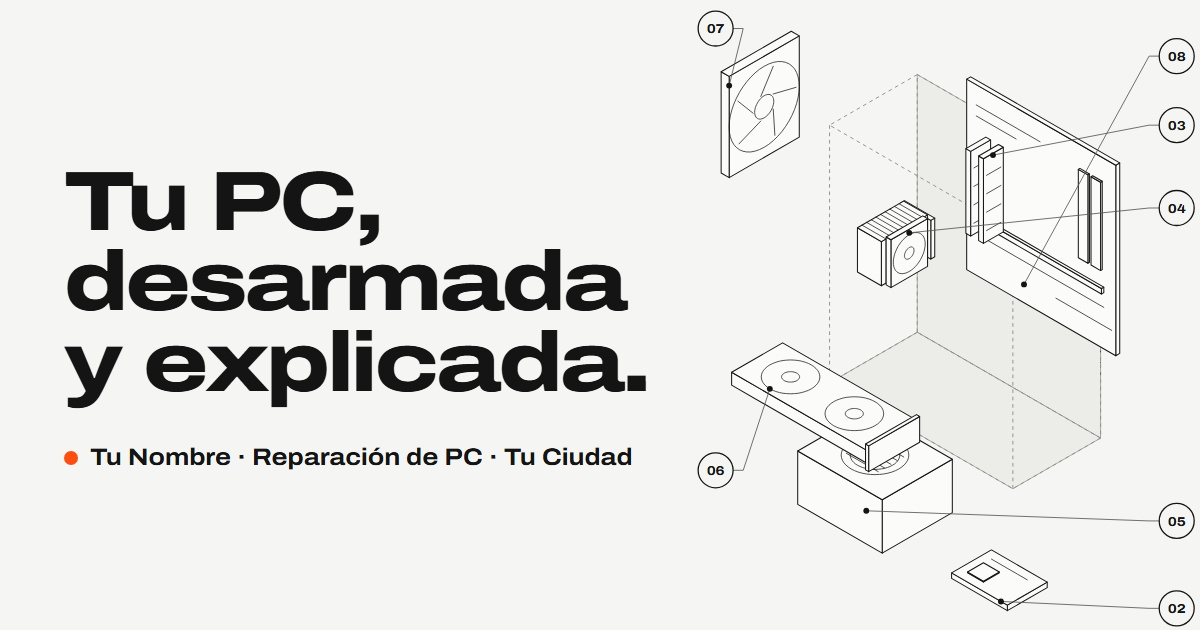
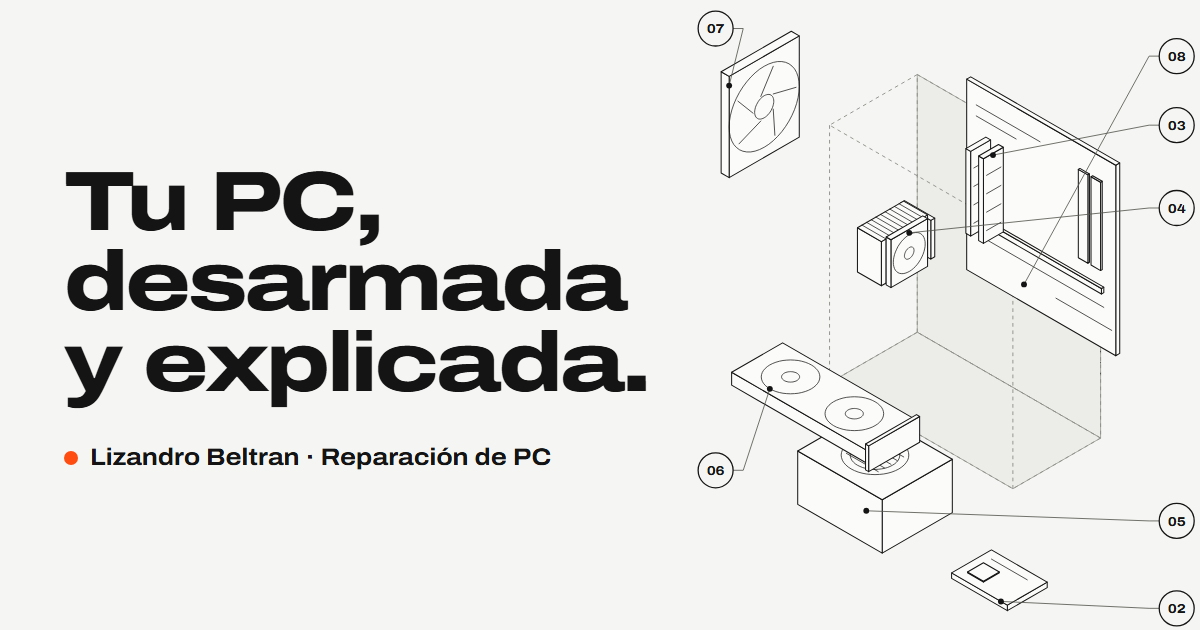
Poner el nombre Lizandro Beltran

Changed region(s): [[0.0617, 0.6937, 0.5242, 0.754]]

diff --git a/index.template.html b/index.template.html
@@ -5,7 +5,7 @@
   <meta name="viewport" content="width=device-width, initial-scale=1">
   <meta http-equiv="Content-Security-Policy" content="default-src 'self'; script-src 'self'; style-src 'self'; img-src 'self' data:; font-src 'self'; connect-src 'self'; base-uri 'none'; form-action 'none'; object-src 'none'">
   <meta name="referrer" content="strict-origin-when-cross-origin">
-  <title>Tu Nombre · Reparación de PC en Tu Ciudad</title>
+  <title>Lizandro Beltran · Reparación de PC en Tu Ciudad</title>
   <meta name="description" content="Técnico en reparación de computadoras en Tu Ciudad. PC lenta, que no prende, se apaga sola, virus o Windows que no arranca: te explico qué tiene en palabras simples y te muestro lo que hice.">
   <meta name="theme-color" content="#f5f6f3" media="(prefers-color-scheme: light)">
   <meta name="theme-color" content="#161719" media="(prefers-color-scheme: dark)">
@@ -13,7 +13,7 @@
   <link rel="canonical" href="https://valentinomastro-ops.github.io/portafolio-reparacion-pc/">
   <meta property="og:type" content="website">
   <meta property="og:locale" content="es_AR">
-  <meta property="og:title" content="Tu Nombre · Reparación de PC">
+  <meta property="og:title" content="Lizandro Beltran · Reparación de PC">
   <meta property="og:description" content="Tu PC, desarmada y explicada. Diagnóstico, reparación y mejoras de computadoras en Tu Ciudad.">
   <meta property="og:image" content="https://valentinomastro-ops.github.io/portafolio-reparacion-pc/assets/og-image.png">
   <meta property="og:url" content="https://valentinomastro-ops.github.io/portafolio-reparacion-pc/">
@@ -29,7 +29,7 @@
   {
     "@context": "https://schema.org",
     "@type": "LocalBusiness",
-    "name": "Tu Nombre · Reparación de PC",
+    "name": "Lizandro Beltran · Reparación de PC",
     "description": "Diagnóstico, reparación, limpieza y mejoras de computadoras de escritorio.",
     "telephone": "+54 9 385 845-9463",
     "email": "lizandro_beltran@hotmail.com",
@@ -54,9 +54,9 @@
 
   <header class="site-header" data-header>
     <div class="wrap header-row">
-      <a class="brand" href="#inicio" aria-label="Tu Nombre, ir al inicio">
-        <span class="brand-mark" aria-hidden="true">TN</span>
-        <span class="brand-text"><strong>Tu Nombre</strong><span>Reparación de PC</span></span>
+      <a class="brand" href="#inicio" aria-label="Lizandro Beltran, ir al inicio">
+        <span class="brand-mark" aria-hidden="true">LB</span>
+        <span class="brand-text"><strong>Lizandro Beltran</strong><span>Reparación de PC</span></span>
       </a>
       <nav class="nav" id="menu" aria-label="Principal" data-nav>
         <ul>
@@ -87,7 +87,7 @@
       <div class="wrap hero-grid">
         <div class="hero-copy">
           <h1 id="hero-title" class="display">Tu PC, desarmada y&nbsp;explicada.</h1>
-          <p class="lede">Soy <strong>Tu Nombre</strong>, técnico en reparación de computadoras en Tu&nbsp;Ciudad. Te digo qué tiene tu equipo en palabras simples, lo arreglo y te muestro lo que hice.</p>
+          <p class="lede">Soy <strong>Lizandro Beltran</strong>, técnico en reparación de computadoras en Tu&nbsp;Ciudad. Te digo qué tiene tu equipo en palabras simples, lo arreglo y te muestro lo que hice.</p>
           <div class="hero-actions">
             <a class="btn btn-signal btn-lg" href="https://wa.me/5493858459463?text=Hola%2C%20quiero%20consultar%20por%20mi%20PC" target="_blank" rel="noopener noreferrer" data-wa-link>
               <span class="callout-num" aria-hidden="true">01</span>
@@ -229,7 +229,7 @@ __SERVICES__
         </figure>
         <div class="about-copy">
           <h2 id="sobre-title" class="h2">Sobre mí</h2>
-          <p class="about-lead">Soy Tu Nombre. Arreglo computadoras porque me gusta entender cómo funcionan las cosas, y explicarlo para que vos también lo entiendas.</p>
+          <p class="about-lead">Soy Lizandro Beltran. Arreglo computadoras porque me gusta entender cómo funcionan las cosas, y explicarlo para que vos también lo entiendas.</p>
           <p>Trabajo de forma independiente en Tu Ciudad. Me escribís a mí y te contesto yo: el que te explica qué tiene tu equipo es el mismo que lo repara.</p>
           <ul class="about-facts">
             <li><span class="fact-k">Zona</span><span class="fact-v">Tu Ciudad y alrededores</span></li>
@@ -323,7 +323,7 @@ __SERVICES__
   <footer class="site-footer">
     <div class="wrap">
       <dl class="title-block">
-        <div><dt>Técnico</dt><dd>Tu Nombre</dd></div>
+        <div><dt>Técnico</dt><dd>Lizandro Beltran</dd></div>
         <div><dt>Servicio</dt><dd>Reparación de PC · Tu Ciudad</dd></div>
         <div><dt>Hoja</dt><dd>1 de 1</dd></div>
         <div><dt>Año</dt><dd><span data-year>2026</span></dd></div>

diff --git a/index.html b/index.html
@@ -5,7 +5,7 @@
   <meta name="viewport" content="width=device-width, initial-scale=1">
   <meta http-equiv="Content-Security-Policy" content="default-src 'self'; script-src 'self'; style-src 'self'; img-src 'self' data:; font-src 'self'; connect-src 'self'; base-uri 'none'; form-action 'none'; object-src 'none'">
   <meta name="referrer" content="strict-origin-when-cross-origin">
-  <title>Tu Nombre · Reparación de PC en Tu Ciudad</title>
+  <title>Lizandro Beltran · Reparación de PC en Tu Ciudad</title>
   <meta name="description" content="Técnico en reparación de computadoras en Tu Ciudad. PC lenta, que no prende, se apaga sola, virus o Windows que no arranca: te explico qué tiene en palabras simples y te muestro lo que hice.">
   <meta name="theme-color" content="#f5f6f3" media="(prefers-color-scheme: light)">
   <meta name="theme-color" content="#161719" media="(prefers-color-scheme: dark)">
@@ -13,7 +13,7 @@
   <link rel="canonical" href="https://valentinomastro-ops.github.io/portafolio-reparacion-pc/">
   <meta property="og:type" content="website">
   <meta property="og:locale" content="es_AR">
-  <meta property="og:title" content="Tu Nombre · Reparación de PC">
+  <meta property="og:title" content="Lizandro Beltran · Reparación de PC">
   <meta property="og:description" content="Tu PC, desarmada y explicada. Diagnóstico, reparación y mejoras de computadoras en Tu Ciudad.">
   <meta property="og:image" content="https://valentinomastro-ops.github.io/portafolio-reparacion-pc/assets/og-image.png">
   <meta property="og:url" content="https://valentinomastro-ops.github.io/portafolio-reparacion-pc/">
@@ -29,7 +29,7 @@
   {
     "@context": "https://schema.org",
     "@type": "LocalBusiness",
-    "name": "Tu Nombre · Reparación de PC",
+    "name": "Lizandro Beltran · Reparación de PC",
     "description": "Diagnóstico, reparación, limpieza y mejoras de computadoras de escritorio.",
     "telephone": "+54 9 385 845-9463",
     "email": "lizandro_beltran@hotmail.com",
@@ -54,9 +54,9 @@
 
   <header class="site-header" data-header>
     <div class="wrap header-row">
-      <a class="brand" href="#inicio" aria-label="Tu Nombre, ir al inicio">
-        <span class="brand-mark" aria-hidden="true">TN</span>
-        <span class="brand-text"><strong>Tu Nombre</strong><span>Reparación de PC</span></span>
+      <a class="brand" href="#inicio" aria-label="Lizandro Beltran, ir al inicio">
+        <span class="brand-mark" aria-hidden="true">LB</span>
+        <span class="brand-text"><strong>Lizandro Beltran</strong><span>Reparación de PC</span></span>
       </a>
       <nav class="nav" id="menu" aria-label="Principal" data-nav>
         <ul>
@@ -87,7 +87,7 @@
       <div class="wrap hero-grid">
         <div class="hero-copy">
           <h1 id="hero-title" class="display">Tu PC, desarmada y&nbsp;explicada.</h1>
-          <p class="lede">Soy <strong>Tu Nombre</strong>, técnico en reparación de computadoras en Tu&nbsp;Ciudad. Te digo qué tiene tu equipo en palabras simples, lo arreglo y te muestro lo que hice.</p>
+          <p class="lede">Soy <strong>Lizandro Beltran</strong>, técnico en reparación de computadoras en Tu&nbsp;Ciudad. Te digo qué tiene tu equipo en palabras simples, lo arreglo y te muestro lo que hice.</p>
           <div class="hero-actions">
             <a class="btn btn-signal btn-lg" href="https://wa.me/5493858459463?text=Hola%2C%20quiero%20consultar%20por%20mi%20PC" target="_blank" rel="noopener noreferrer" data-wa-link>
               <span class="callout-num" aria-hidden="true">01</span>
@@ -317,7 +317,7 @@
         </figure>
         <div class="about-copy">
           <h2 id="sobre-title" class="h2">Sobre mí</h2>
-          <p class="about-lead">Soy Tu Nombre. Arreglo computadoras porque me gusta entender cómo funcionan las cosas, y explicarlo para que vos también lo entiendas.</p>
+          <p class="about-lead">Soy Lizandro Beltran. Arreglo computadoras porque me gusta entender cómo funcionan las cosas, y explicarlo para que vos también lo entiendas.</p>
           <p>Trabajo de forma independiente en Tu Ciudad. Me escribís a mí y te contesto yo: el que te explica qué tiene tu equipo es el mismo que lo repara.</p>
           <ul class="about-facts">
             <li><span class="fact-k">Zona</span><span class="fact-v">Tu Ciudad y alrededores</span></li>
@@ -411,7 +411,7 @@
   <footer class="site-footer">
     <div class="wrap">
       <dl class="title-block">
-        <div><dt>Técnico</dt><dd>Tu Nombre</dd></div>
+        <div><dt>Técnico</dt><dd>Lizandro Beltran</dd></div>
         <div><dt>Servicio</dt><dd>Reparación de PC · Tu Ciudad</dd></div>
         <div><dt>Hoja</dt><dd>1 de 1</dd></div>
         <div><dt>Año</dt><dd><span data-year>2026</span></dd></div>

diff --git a/tools/og.html b/tools/og.html
@@ -11,7 +11,7 @@ body { width:1200px; height:630px; overflow:hidden; display:grid; grid-template-
 .og-name::before { content:""; display:inline-block; width:14px; height:14px; border-radius:50%; background:var(--signal); margin-right:12px; }
 </style></head>
 <body><div><h1 class="display">Tu PC, desarmada y&nbsp;explicada.</h1>
-<p class="og-name">Tu Nombre · Reparación de PC · Tu Ciudad</p></div>
+<p class="og-name">Lizandro Beltran · Reparación de PC</p></div>
 <figure class="exploded is-open"><svg class="exploded-svg" viewBox="-249.1 -361.0 565.0 693.5"><g class="case-shell"><polygon class="case-back" points="0.0,0.0 199.2,115.0 199.2,-165.0 0.0,-280.0"/><polygon class="case-back" points="0.0,0.0 199.2,115.0 103.9,170.0 -95.3,55.0"/><line class="case" x1="0.0" y1="0.0" x2="0.0" y2="-280.0"/><line class="case" x1="0.0" y1="-280.0" x2="199.2" y2="-165.0"/><line class="case" x1="199.2" y1="-165.0" x2="199.2" y2="115.0"/><line class="case" x1="199.2" y1="115.0" x2="0.0" y2="0.0"/><line class="case" x1="-95.3" y1="55.0" x2="103.9" y2="170.0"/><line class="case" x1="103.9" y1="170.0" x2="103.9" y2="-110.0"/><line class="case" x1="103.9" y1="-110.0" x2="-95.3" y2="-225.0"/><line class="case" x1="-95.3" y1="-225.0" x2="-95.3" y2="55.0"/><line class="case" x1="0.0" y1="0.0" x2="-95.3" y2="55.0"/><line class="case" x1="199.2" y1="115.0" x2="103.9" y2="170.0"/><line class="case" x1="199.2" y1="-165.0" x2="103.9" y2="-110.0"/><line class="case" x1="0.0" y1="-280.0" x2="-95.3" y2="-225.0"/><line class="d" x1="199.2" y1="45.0" x2="199.2" y2="45.0"/><line class="d" x1="199.2" y1="33.0" x2="199.2" y2="33.0"/><line class="d" x1="199.2" y1="21.0" x2="199.2" y2="21.0"/><line class="d" x1="199.2" y1="9.0" x2="199.2" y2="9.0"/><line class="d" x1="199.2" y1="-3.0" x2="199.2" y2="-3.0"/><line class="d" x1="199.2" y1="-15.0" x2="199.2" y2="-15.0"/><line class="d" x1="199.2" y1="-27.0" x2="199.2" y2="-27.0"/></g>
 <g class="part" data-part="placa"><g transform="translate(44.2 -25.5)"><polygon class="f" points="175.8,48.5 175.8,-158.5 171.5,-156.0 171.5,51.0"/><polygon class="f" points="9.5,-42.5 171.5,51.0 171.5,-156.0 9.5,-249.5"/><polygon class="f" points="13.9,-252.0 175.8,-158.5 171.5,-156.0 9.5,-249.5"/><line class="d" x1="19.9" y1="-221.5" x2="89.2" y2="-181.5"/><line class="d" x1="19.9" y1="-209.5" x2="63.2" y2="-184.5"/><line class="d" x1="106.5" y1="-11.5" x2="167.1" y2="23.5"/><line class="d" x1="28.6" y1="-76.5" x2="158.5" y2="-1.5"/><polygon class="f" points="142.9,-50.5 142.9,-146.5 141.2,-145.5 141.2,-49.5"/><polygon class="f" points="130.8,-55.5 141.2,-49.5 141.2,-145.5 130.8,-151.5"/><polygon class="f" points="132.5,-152.5 142.9,-146.5 141.2,-145.5 130.8,-151.5"/><polygon class="f" points="156.8,-42.5 156.8,-138.5 155.0,-137.5 155.0,-41.5"/><polygon class="f" points="144.6,-47.5 155.0,-41.5 155.0,-137.5 144.6,-143.5"/><polygon class="f" points="146.4,-144.5 156.8,-138.5 155.0,-137.5 144.6,-143.5"/><polygon class="f" points="158.5,-17.5 158.5,-23.5 155.9,-22.0 155.9,-16.0"/><polygon class="f" points="26.0,-91.0 155.9,-16.0 155.9,-22.0 26.0,-97.0"/><polygon class="f" points="28.6,-98.5 158.5,-23.5 155.9,-22.0 26.0,-97.0"/></g></g>
 <g class="part" data-part="fuente"><g transform="translate(-58.9 136.0)"><polygon class="f" points="97.0,60.0 97.0,2.0 20.8,46.0 20.8,104.0"/><polygon class="f" points="-71.0,51.0 20.8,104.0 20.8,46.0 -71.0,-7.0"/><polygon class="f" points="5.2,-51.0 97.0,2.0 20.8,46.0 -71.0,-7.0"/><polygon class="d" points="39.0,12.5 35.4,14.3 31.4,15.9 27.1,17.1 22.5,18.0 17.8,18.5 13.0,18.7 8.2,18.5 3.5,18.0 -1.1,17.1 -5.4,15.9 -9.4,14.3 -13.0,12.5 -16.2,10.4 -18.8,8.1 -21.0,5.6 -22.5,3.0 -23.4,0.3 -23.8,-2.5 -23.4,-5.3 -22.5,-8.0 -21.0,-10.6 -18.8,-13.1 -16.2,-15.4 -13.0,-17.5 -9.4,-19.3 -5.4,-20.9 -1.1,-22.1 3.5,-23.0 8.2,-23.5 13.0,-23.7 17.8,-23.5 22.5,-23.0 27.1,-22.1 31.4,-20.9 35.4,-19.3 39.0,-17.5 42.1,-15.4 44.8,-13.1 46.9,-10.6 48.5,-8.0 49.4,-5.3 49.7,-2.5 49.4,0.3 48.5,3.0 46.9,5.6 44.8,8.1 42.1,10.4"/><polygon class="d" points="32.0,8.5 29.4,9.8 26.5,11.0 23.3,11.9 20.0,12.5 16.5,12.9 13.0,13.1 9.5,12.9 6.0,12.5 2.7,11.9 -0.5,11.0 -3.4,9.8 -6.1,8.5 -8.4,7.0 -10.3,5.3 -11.9,3.5 -13.0,1.5 -13.7,-0.5 -14.0,-2.5 -13.7,-4.5 -13.0,-6.5 -11.9,-8.5 -10.3,-10.3 -8.4,-12.0 -6.1,-13.5 -3.4,-14.8 -0.5,-16.0 2.7,-16.9 6.0,-17.5 9.5,-17.9 13.0,-18.1 16.5,-17.9 20.0,-17.5 23.3,-16.9 26.5,-16.0 29.4,-14.8 32.0,-13.5 34.4,-12.0 36.3,-10.3 37.9,-8.5 39.0,-6.5 39.7,-4.5 39.9,-2.5 39.7,-0.5 39.0,1.5 37.9,3.5 36.3,5.3 34.4,7.0"/><line class="d" x1="9.5" y1="-20.5" x2="44.2" y2="-0.5"/><line class="d" x1="2.6" y1="-16.5" x2="37.2" y2="3.5"/><line class="d" x1="-4.3" y1="-12.5" x2="30.3" y2="7.5"/><line class="d" x1="-11.3" y1="-8.5" x2="23.4" y2="11.5"/><line class="d" x1="-18.2" y1="-4.5" x2="16.5" y2="15.5"/></g></g>

diff --git a/tools/build.py b/tools/build.py
@@ -111,7 +111,7 @@ body {{ width:1200px; height:630px; overflow:hidden; display:grid; grid-template
 .og-name::before {{ content:""; display:inline-block; width:14px; height:14px; border-radius:50%; background:var(--signal); margin-right:12px; }}
 </style></head>
 <body><div><h1 class="display">Tu PC, desarmada y&nbsp;explicada.</h1>
-<p class="og-name">Tu Nombre · Reparación de PC · Tu Ciudad</p></div>
+<p class="og-name">Lizandro Beltran · Reparación de PC</p></div>
 <figure class="exploded is-open"><svg class="exploded-svg" viewBox="{vb}">{frag}{callouts(meta)}</svg></figure>
 </body></html>'''
     (ROOT / "tools" / "og.html").write_text(og, encoding="utf-8", newline="\n")

diff --git a/README.md b/README.md
@@ -34,7 +34,6 @@ El sitio tiene datos de ejemplo que **tenés que reemplazar** antes de publicarl
 
 | Dato de ejemplo | Dónde está |
 |---|---|
-| `Tu Nombre`, `TN` (iniciales) | `index.template.html` (varias veces), `404.html`, `site.webmanifest`, `assets/favicon.svg` |
 | `Tu Ciudad` | `index.template.html` |
 | `tu-usuario.github.io/portafolio-reparacion-pc` | `index.template.html` (canonical, Open Graph, JSON-LD), `robots.txt`, `sitemap.xml` |
 | Horario, zona y tipos de equipo | `index.template.html`, sección «Sobre mí» |
@@ -42,7 +41,7 @@ El sitio tiene datos de ejemplo que **tenés que reemplazar** antes de publicarl
 
 Revisá también que las respuestas de **Preguntas frecuentes** y los pasos de **Cómo trabajo** describan cómo trabajás de verdad (presupuesto, copia de seguridad, plazos). Están redactadas como propuesta y no como compromisos confirmados.
 
-Con el buscador del editor encontrás todos los datos de ejemplo: buscá `Tu Nombre`, `Tu Ciudad`, `tu-usuario` y `ejemplo`.
+Con el buscador del editor encontrás todos los datos de ejemplo: buscá `Tu Ciudad`, `tu-usuario` y `ejemplo`.
 
 El celular (`5493858459463`) y el correo ya están cargados. Para cambiarlos, editá la constante `WHATSAPP_NUMBER` en `js/main.js` y los enlaces `wa.me`, `tel:` y `mailto:` de `index.template.html`.
 
